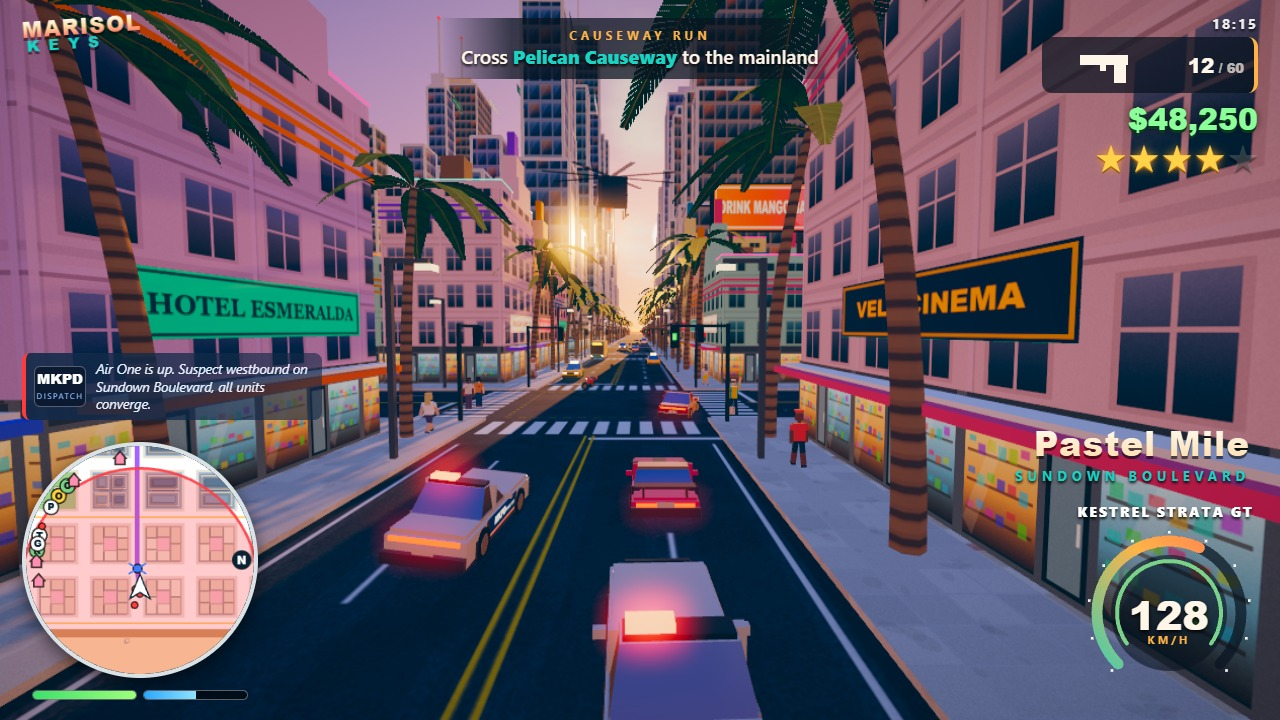
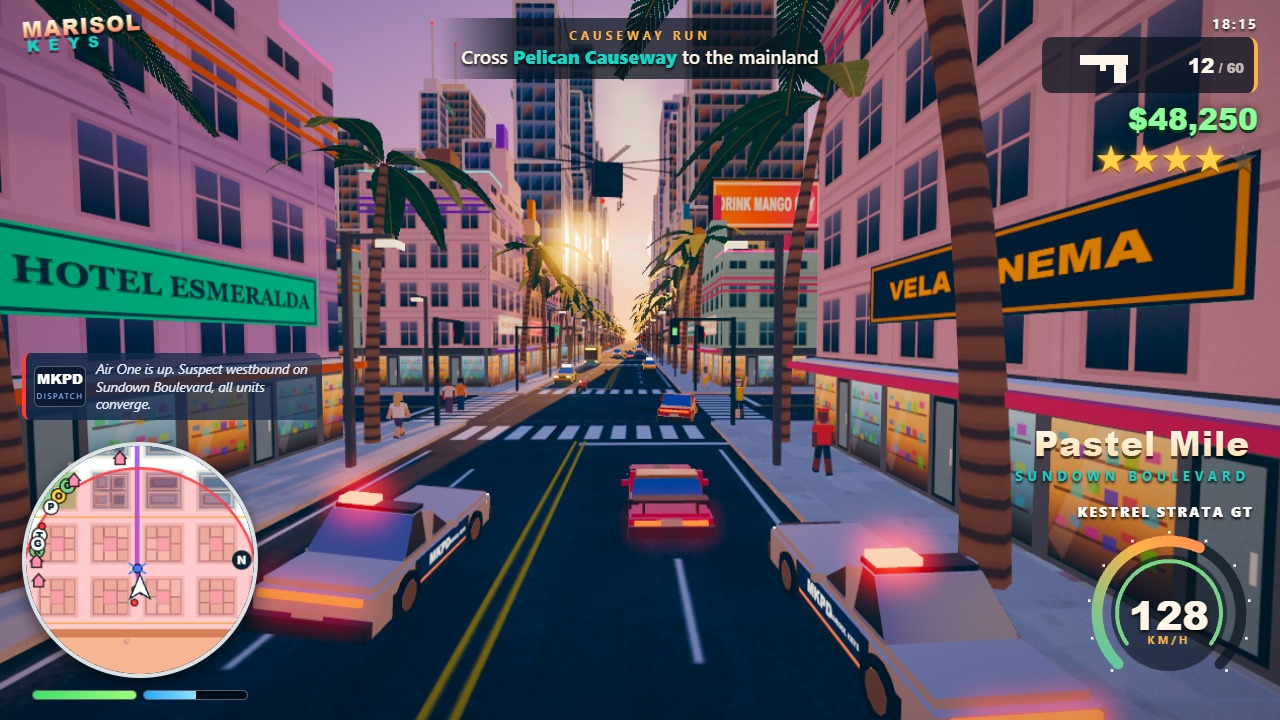
Cover framing puts the player's car centre stage; phone shows island activities

diff --git a/game/src/ui/phoneScreen.js b/game/src/ui/phoneScreen.js
@@ -109,7 +109,12 @@ export class PhoneScreen {
         const cls = k < st.story ? 'done' : k === st.story ? 'next' : '';
         return `<div class="row ${cls}"><span class="num">${k < st.story ? '✓' : k + 1}</span><canvas data-portrait="${m.giver}" width="40" height="40" style="width:30px;height:30px;border-radius:6px"></canvas><span class="what"><b>${m.title}</b><span class="who">${CAST[m.giver].name}</span></span><span class="pay">${formatMoney(m.reward)}</span></div>`;
       }).join('');
-      this.side.innerHTML = `<h3>THE TIDE BOOK</h3><div class="progress">STORY ${st.story}/${STORY.length} · ${pct}% COMPLETE<i style="--p:${pct}%"></i></div>${rows}`;
+      const owned = st.properties.length;
+      const tiles = [
+        ['🚕', 'Cab fares', `${st.stats.fares} done`], ['📦', 'Couriers', `${st.stats.deliveries} runs`], ['🏁', 'Night Sprint', st.stats.bestRace ? `${st.stats.bestRace.toFixed(1)}s` : 'no time'],
+        ['📄', 'Tide pages', `${(st.pages || []).length}/20`], ['⌂', 'Properties', `${owned}/4 owned`], ['⛵', 'Speedboats', 'pier · harbor'],
+      ].map(([icon, name, val]) => `<div class="tile"><span>${icon}</span><b>${name}</b><i>${val}</i></div>`).join('');
+      this.side.innerHTML = `<h3>THE TIDE BOOK</h3><div class="progress">STORY ${st.story}/${STORY.length} · ${pct}% COMPLETE<i style="--p:${pct}%"></i></div><div class="story-list">${rows}</div><h3 class="sub">ON THE ISLAND</h3><div class="tiles">${tiles}</div>`;
       this.side.querySelectorAll('[data-portrait]').forEach((c) => paintPortrait(c.getContext('2d'), c.dataset.portrait, 40));
     } else if (this.tab === 'jobs') {
       this.side.innerHTML = `<h3>SIDE JOBS</h3>

diff --git a/game/style.css b/game/style.css
@@ -102,6 +102,17 @@ html, body { margin: 0; height: 100%; overflow: hidden; background: #0b2233; fon
 #phone-side .row .what { flex: 1; }
 #phone-side .row .what b { display: block; font-size: 14px; }
 #phone-side .row .pay { color: var(--cash); font-weight: 800; }
+#phone-side .story-list { display: flex; flex-direction: column; gap: 4px; }
+#phone-side .story-list .row { padding: 3px 9px; }
+#phone-side .story-list .row .what b { font-size: 13.5px; display: inline; }
+#phone-side .story-list .row .who { margin-left: 8px; }
+#phone-side .story-list .row canvas { width: 24px !important; height: 24px !important; }
+#phone-side h3.sub { margin-top: 6px; font-size: 15px; color: var(--amber); }
+#phone-side .tiles { display: grid; grid-template-columns: repeat(3, 1fr); gap: 6px; }
+#phone-side .tile { background: rgba(255,255,255,0.07); border-radius: 9px; padding: 5px 8px; display: grid; grid-template-columns: 24px 1fr; grid-template-rows: auto auto; column-gap: 6px; align-items: center; }
+#phone-side .tile span { grid-row: span 2; font-size: 18px; text-align: center; }
+#phone-side .tile b { font-size: 12.5px; }
+#phone-side .tile i { font-style: normal; font-size: 12px; color: var(--cash); font-weight: 700; }
 
 /* ---------- menus ---------- */
 .screen { position: fixed; inset: 0; display: flex; align-items: center; justify-content: center; background: rgba(6,16,26,0.55); }

diff --git a/game/src/shots/shotScenes.js b/game/src/shots/shotScenes.js
@@ -96,7 +96,7 @@ export const SCENES = {
     finalize(game) {
       const p = game.player.vehicle;
       const units = game.police.units.map((u) => u.vehicle);
-      const spots = [[p.pos.x + 2.6, 4 * B + 2.2, -Math.PI / 2 + 0.06], [p.pos.x + 8.5, p.pos.z + 0.3, -Math.PI / 2 - 0.04], [p.pos.x + 22, 4 * B + 3, -Math.PI / 2]];
+      const spots = [[p.pos.x + 3.2, 4 * B + 2.4, -Math.PI / 2 + 0.07], [p.pos.x + 5.6, p.pos.z - 3.1, -Math.PI / 2 - 0.06], [p.pos.x + 19, 4 * B + 3.2, -Math.PI / 2]];
       units.forEach((v, k) => { if (spots[k]) { v.pos.set(spots[k][0], v.pos.y, spots[k][1]); v.heading = spots[k][2]; v.syncMesh(0.016, 34, game.time); } });
       const h = game.police.heli;
       h.pos.set(p.pos.x - 22, 14.5, p.pos.z + 3);
@@ -107,7 +107,7 @@ export const SCENES = {
       game.wanted.seen = true;
       game.hud.showDistrict({ name: 'Pastel Mile', sub: 'SUNDOWN BOULEVARD' });
       game.dispatch.show('Air One is up. Suspect westbound on Sundown Boulevard, all units converge.');
-      return { pos: new THREE.Vector3(p.pos.x + 15, 5.0, p.pos.z + 0.8), look: new THREE.Vector3(p.pos.x - 30, 2.4, p.pos.z + 0.6) };
+      return { pos: new THREE.Vector3(p.pos.x + 12.5, 4.3, p.pos.z + 0.9), look: new THREE.Vector3(p.pos.x - 30, 2.6, p.pos.z + 0.2) };
     },
   },
 
